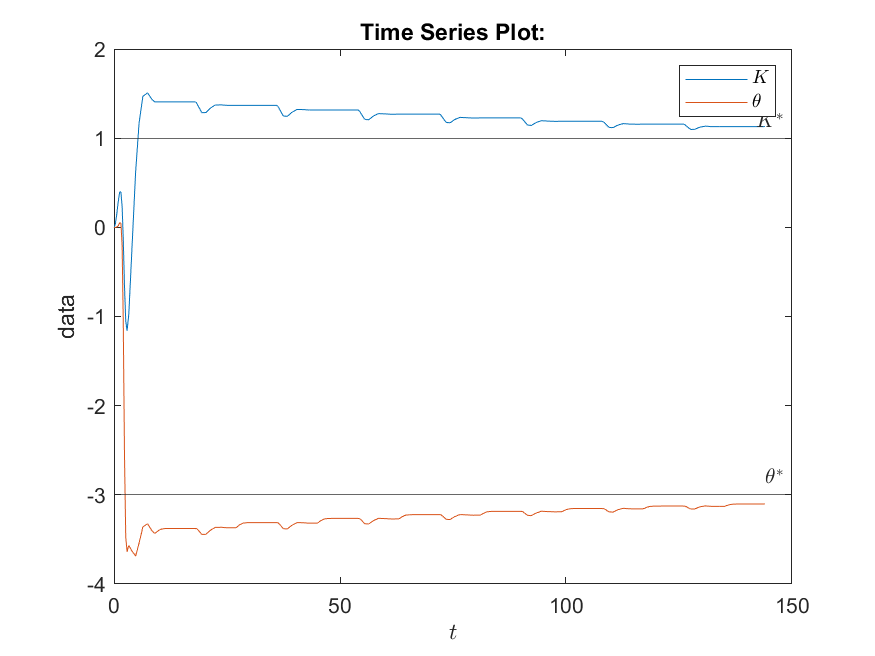
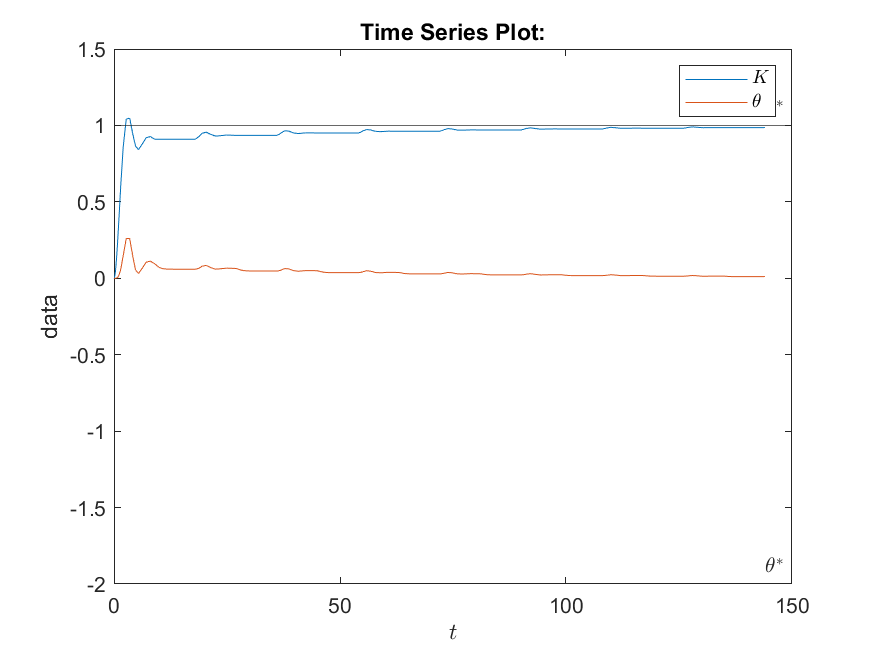
updates trabalho-1

diff --git a/trabalho-1/CAMR/controle_adap_script.m b/trabalho-1/CAMR/controle_adap_script.m
@@ -6,7 +6,7 @@ ref_pulse_T = 18;
 
 ref_sin_freq = 1/ref_pulse_T;
 
-switch_ref = 0;
+switch_ref = 1;
 ref = ["pulse" "sine"];
 ref = ref(switch_ref+1);
 
@@ -17,6 +17,7 @@ bm = 1;
 % real plant
 ap = 1;
 bp = 1;
+b = 10;
 
 % parameters
 alpha = 1;
@@ -29,6 +30,7 @@ k_opt = bm/bp;
 theta_opt = (am-ap)/bp;
 
 % Plots
+
 % y,ym and r
 figure;
 plot(out.y)
@@ -49,3 +51,4 @@ yline(theta_opt,'-','$\theta^*$','Interpreter','latex');
 legend({'$K$','$\theta$'},'Interpreter','latex');
 xlabel({'$t$'},'Interpreter','latex');
 saveas(gcf,"imgs/ktheta_"+ref+".png");
+
